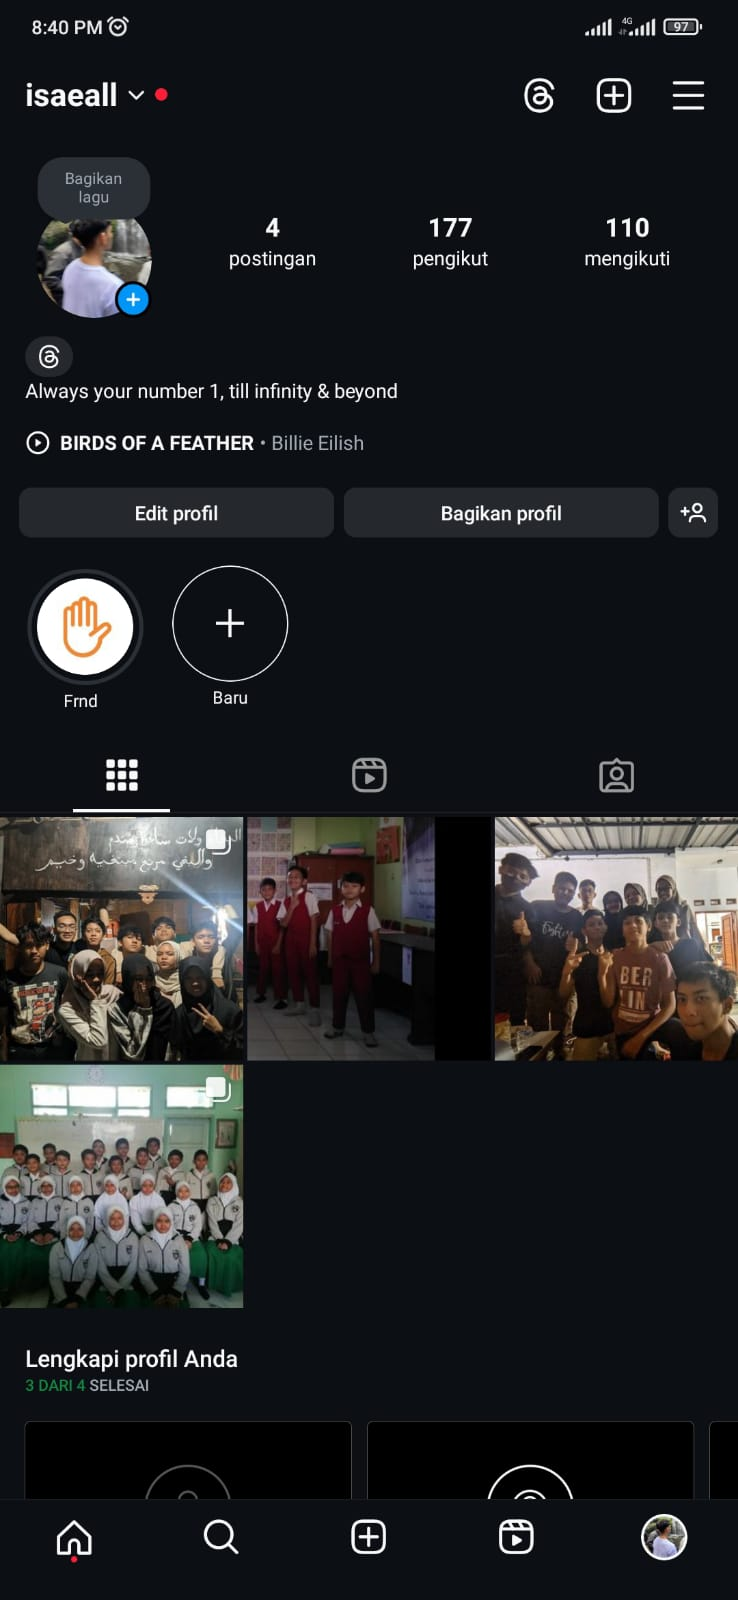
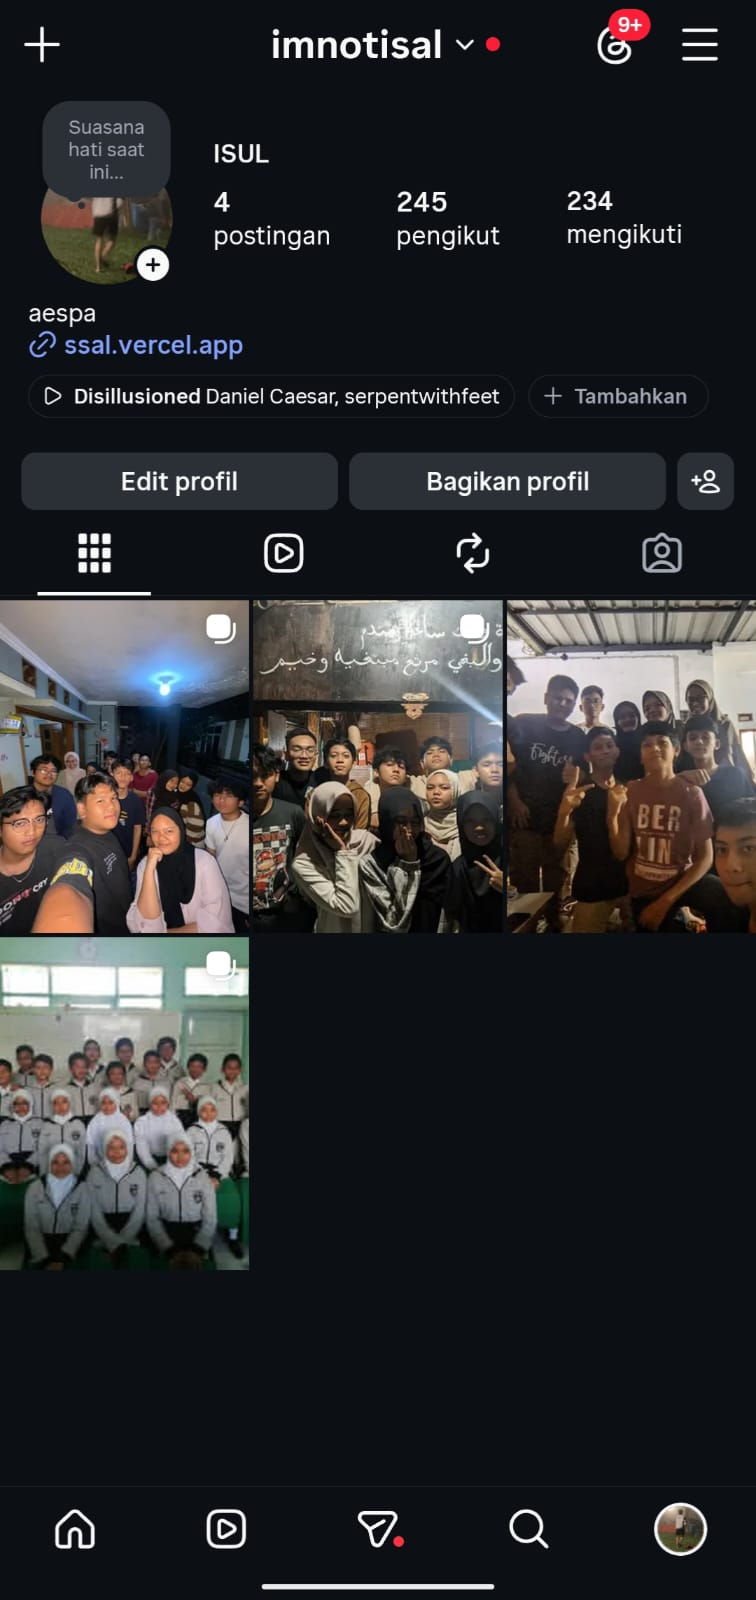
update version

diff --git a/src/pages/About.tsx b/src/pages/About.tsx
@@ -135,13 +135,12 @@ const AboutMe: React.FC = () => {
           data-aos="fade-up"
         >
           <p className="mt-20 mb-16 text-xl leading-relaxed">
-            Nama saya adalah Faisal Maulud Fajri, seorang mahasiswa dari
+            Nama saya adalah Faisal Maulud Fazry, seorang mahasiswa dari
             Universitas Komputer Indonesia "UNIKOM" yang sedang menekuni bidang
-            Teknik Informatika dengan fokus pada pengembangan front-end web.
-            Saya memiliki tekad yang kuat untuk terus belajar dan mengasah
-            keterampilan saya demi mencapai kesempurnaan. Selalu berusaha untuk
-            menemukan solusi terbaik dalam setiap proyek yang saya kerjakan dan
-            memiliki minat besar di bidang front-end web.
+            Teknik Informatika. Saya memiliki tekad yang kuat untuk terus
+            belajar dan mengasah keterampilan saya demi mencapai kesempurnaan.
+            Selalu berusaha untuk menemukan solusi terbaik dalam setiap proyek
+            yang saya kerjakan dan memiliki minat besar di bidang front-end web.
           </p>
           <DownloadButton />
           <div className="flex flex-row w-full max-w-lg space-x-4">
@@ -149,8 +148,8 @@ const AboutMe: React.FC = () => {
               className="flex-1 p-6 text-center text-white rounded-lg shadow-lg bg-gray-800/50 backdrop-blur-sm"
               data-aos="fade-up"
             >
-              <h3 className="text-3xl font-bold">2+</h3>
-              <p className="text-xl">Years of Experience</p>
+              <h3 className="text-3xl font-bold">8+</h3>
+              <p className="text-xl">Months of Experience</p>
             </div>
             <div
               className="flex-1 p-6 text-center text-white rounded-lg shadow-lg bg-gray-800/50 backdrop-blur-sm"
@@ -184,13 +183,12 @@ const AboutMe: React.FC = () => {
           data-aos="fade-up"
         >
           <p className="mb-8 text-lg leading-relaxed">
-            Nama saya adalah Faisal Maulud Fajri, seorang siswa SMKN 4 Bandung
-            dari kelas industri yang menekuni bidang Rekayasa Perangkat Lunak
-            dengan fokus pada pengembangan front-end web. Saya memiliki tekad
-            yang kuat untuk terus belajar dan mengasah keterampilan saya demi
-            mencapai kesempurnaan. Selalu berusaha untuk menemukan solusi
-            terbaik dalam setiap proyek yang saya kerjakan dan memiliki minat
-            besar di bidang front-end web.
+            Nama saya adalah Faisal Maulud Fazry, seorang mahasiswa dari
+            Universitas Komputer Indonesia "UNIKOM" yang sedang menekuni bidang
+            Teknik Informatika. Saya memiliki tekad yang kuat untuk terus
+            belajar dan mengasah keterampilan saya demi mencapai kesempurnaan.
+            Selalu berusaha untuk menemukan solusi terbaik dalam setiap proyek
+            yang saya kerjakan dan memiliki minat besar di bidang front-end web.
           </p>
 
           {/* Download CV Button for Mobile */}
@@ -208,8 +206,8 @@ const AboutMe: React.FC = () => {
             className="p-6 text-center text-white bg-gray-800 rounded-lg shadow-lg"
             data-aos="fade-up"
           >
-            <h3 className="text-3xl font-bold">2+</h3>
-            <p className="text-xl">Years of Experience</p>
+            <h3 className="text-3xl font-bold">8+</h3>
+            <p className="text-xl">Months of Experience</p>
           </div>
           <div
             className="p-6 text-center text-white bg-gray-800 rounded-lg shadow-lg"

diff --git a/src/pages/ContactForm.tsx b/src/pages/ContactForm.tsx
@@ -26,7 +26,7 @@ const ContactForm: React.FC = () => {
       case "instagram":
         return "/images/IG.jpeg";
       case "github":
-        return "/images/GitSS.jpeg";
+        return "/images/GITHUB.jpeg";
       default:
         return "/path-to-your-image/default-image.png";
     }
